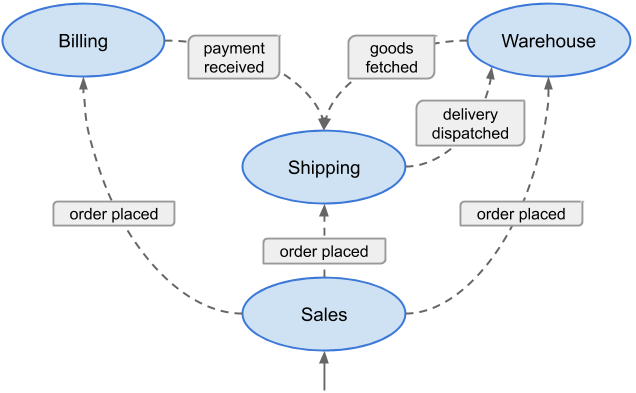
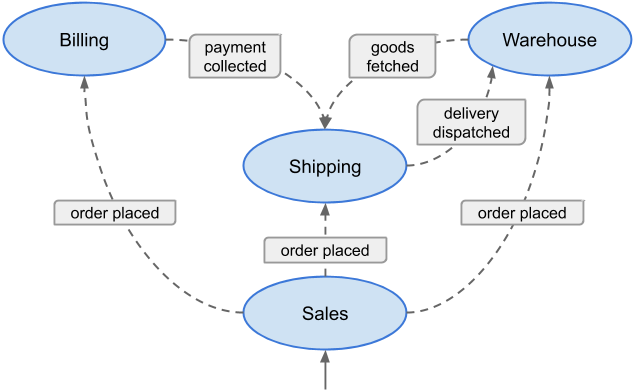
PaymentCollected event renamed

diff --git a/ddd-ecommerce-example/src/test/java/com/ttulka/samples/ddd/ecommerce/billing/payment/jdbc/CollectPaymentTest.java b/ddd-ecommerce-example/src/test/java/com/ttulka/samples/ddd/ecommerce/billing/payment/jdbc/CollectPaymentTest.java
@@ -1,7 +1,7 @@
 package com.ttulka.samples.ddd.ecommerce.billing.payment.jdbc;
 
 import com.ttulka.samples.ddd.ecommerce.billing.CollectPayment;
-import com.ttulka.samples.ddd.ecommerce.billing.PaymentReceived;
+import com.ttulka.samples.ddd.ecommerce.billing.PaymentCollected;
 import com.ttulka.samples.ddd.ecommerce.billing.payment.Money;
 import com.ttulka.samples.ddd.ecommerce.billing.payment.ReferenceId;
 import com.ttulka.samples.ddd.ecommerce.common.EventPublisher;
@@ -33,11 +33,11 @@ class CollectPaymentTest {
 
         verify(eventPublisher).raise(argThat(
                 event -> {
-                    assertThat(event).isInstanceOf(PaymentReceived.class);
-                    PaymentReceived paymentReceived = (PaymentReceived) event;
+                    assertThat(event).isInstanceOf(PaymentCollected.class);
+                    PaymentCollected paymentCollected = (PaymentCollected) event;
                     assertAll(
-                            () -> assertThat(paymentReceived.when).isNotNull(),
-                            () -> assertThat(paymentReceived.referenceId).isEqualTo(123L)
+                            () -> assertThat(paymentCollected.when).isNotNull(),
+                            () -> assertThat(paymentCollected.referenceId).isEqualTo(123L)
                     );
                     return true;
                 }));

diff --git a/ddd-ecommerce-example/src/test/java/com/ttulka/samples/ddd/ecommerce/billing/payment/jdbc/PaymentTest.java b/ddd-ecommerce-example/src/test/java/com/ttulka/samples/ddd/ecommerce/billing/payment/jdbc/PaymentTest.java
@@ -1,6 +1,6 @@
 package com.ttulka.samples.ddd.ecommerce.billing.payment.jdbc;
 
-import com.ttulka.samples.ddd.ecommerce.billing.PaymentReceived;
+import com.ttulka.samples.ddd.ecommerce.billing.PaymentCollected;
 import com.ttulka.samples.ddd.ecommerce.billing.payment.Money;
 import com.ttulka.samples.ddd.ecommerce.billing.payment.Payment;
 import com.ttulka.samples.ddd.ecommerce.billing.payment.ReferenceId;
@@ -68,11 +68,11 @@ class PaymentTest {
 
         verify(eventPublisher).raise(argThat(
                 event -> {
-                    assertThat(event).isInstanceOf(PaymentReceived.class);
-                    PaymentReceived paymentReceived = (PaymentReceived) event;
+                    assertThat(event).isInstanceOf(PaymentCollected.class);
+                    PaymentCollected paymentCollected = (PaymentCollected) event;
                     assertAll(
-                            () -> assertThat(paymentReceived.when).isNotNull(),
-                            () -> assertThat(paymentReceived.referenceId).isEqualTo(123L)
+                            () -> assertThat(paymentCollected.when).isNotNull(),
+                            () -> assertThat(paymentCollected.referenceId).isEqualTo(123L)
                     );
                     return true;
                 }));

diff --git a/ddd-ecommerce-example/src/main/java/com/ttulka/samples/ddd/ecommerce/billing/payment/jdbc/PaymentJdbc.java b/ddd-ecommerce-example/src/main/java/com/ttulka/samples/ddd/ecommerce/billing/payment/jdbc/PaymentJdbc.java
@@ -3,7 +3,7 @@ package com.ttulka.samples.ddd.ecommerce.billing.payment.jdbc;
 import java.time.Instant;
 import java.util.concurrent.atomic.AtomicLong;
 
-import com.ttulka.samples.ddd.ecommerce.billing.PaymentReceived;
+import com.ttulka.samples.ddd.ecommerce.billing.PaymentCollected;
 import com.ttulka.samples.ddd.ecommerce.billing.payment.Money;
 import com.ttulka.samples.ddd.ecommerce.billing.payment.Payment;
 import com.ttulka.samples.ddd.ecommerce.billing.payment.PaymentId;
@@ -90,7 +90,7 @@ final class PaymentJdbc implements Payment {
                 "UPDATE payments SET status = ? WHERE id = ?",
                 status.name(), id.value());
 
-        eventPublisher.raise(new PaymentReceived(Instant.now(), referenceId.value()));
+        eventPublisher.raise(new PaymentCollected(Instant.now(), referenceId.value()));
 
         log.info("Payment collected: {}", this);
     }

diff --git a/ddd-ecommerce-example/src/test/java/com/ttulka/samples/ddd/ecommerce/shipping/listeners/ShippingListenersTest.java b/ddd-ecommerce-example/src/test/java/com/ttulka/samples/ddd/ecommerce/shipping/listeners/ShippingListenersTest.java
@@ -3,7 +3,7 @@ package com.ttulka.samples.ddd.ecommerce.shipping.listeners;
 import java.time.Instant;
 import java.util.List;
 
-import com.ttulka.samples.ddd.ecommerce.billing.PaymentReceived;
+import com.ttulka.samples.ddd.ecommerce.billing.PaymentCollected;
 import com.ttulka.samples.ddd.ecommerce.common.EventPublisher;
 import com.ttulka.samples.ddd.ecommerce.sales.OrderPlaced;
 import com.ttulka.samples.ddd.ecommerce.shipping.FindDeliveries;
@@ -67,7 +67,7 @@ class ShippingListenersTest {
 
     @Test
     void on_payment_received_a_delivery_is_updated() {
-        runTx(() -> eventPublisher.raise(new PaymentReceived(Instant.now(), 123L)));
+        runTx(() -> eventPublisher.raise(new PaymentCollected(Instant.now(), 123L)));
 
         verify(updateDelivery).asPaid(new OrderId(123L));
     }

diff --git a/ddd-ecommerce-example/src/main/java/com/ttulka/samples/ddd/ecommerce/shipping/listeners/DispatchingListener.java b/ddd-ecommerce-example/src/main/java/com/ttulka/samples/ddd/ecommerce/shipping/listeners/DispatchingListener.java
@@ -1,6 +1,6 @@
 package com.ttulka.samples.ddd.ecommerce.shipping.listeners;
 
-import com.ttulka.samples.ddd.ecommerce.billing.PaymentReceived;
+import com.ttulka.samples.ddd.ecommerce.billing.PaymentCollected;
 import com.ttulka.samples.ddd.ecommerce.shipping.UpdateDelivery;
 import com.ttulka.samples.ddd.ecommerce.shipping.delivery.OrderId;
 import com.ttulka.samples.ddd.ecommerce.warehouse.GoodsFetched;
@@ -21,7 +21,7 @@ class DispatchingListener {
     }
 
     @TransactionalEventListener
-    public void on(PaymentReceived event) {
+    public void on(PaymentCollected event) {
         updateDelivery.asPaid(new OrderId(event.referenceId));
     }
 }

diff --git a/ddd-ecommerce-example/src/main/java/com/ttulka/samples/ddd/ecommerce/billing/PaymentCollected.java b/ddd-ecommerce-example/src/main/java/com/ttulka/samples/ddd/ecommerce/billing/PaymentCollected.java
@@ -10,7 +10,7 @@ import lombok.ToString;
 @RequiredArgsConstructor
 @EqualsAndHashCode(of = "referenceId")
 @ToString
-public final class PaymentReceived {
+public final class PaymentCollected {
 
     public final @NonNull Instant when;
     public final @NonNull Object referenceId;

diff --git a/ddd-ecommerce-example/README.md b/ddd-ecommerce-example/README.md
@@ -56,7 +56,7 @@ The communication among services is implemented via events:
 When the customer places an order the following process starts up (happy path):
 
 1. Sales service creates a new order and publishes the OrderPlaced event.
-2. Billing service collects payment for the order and publishes the PaymentReceived event.
+2. Billing service collects payment for the order and publishes the PaymentCollected event.
 2. Shipping service prepares a delivery.
 2. Warehouse service fetches goods from the stock and publishes the GoodsFetched event.
 3. Shipping service dispatches the delivery and publishes the DeliveryDispatched event.
